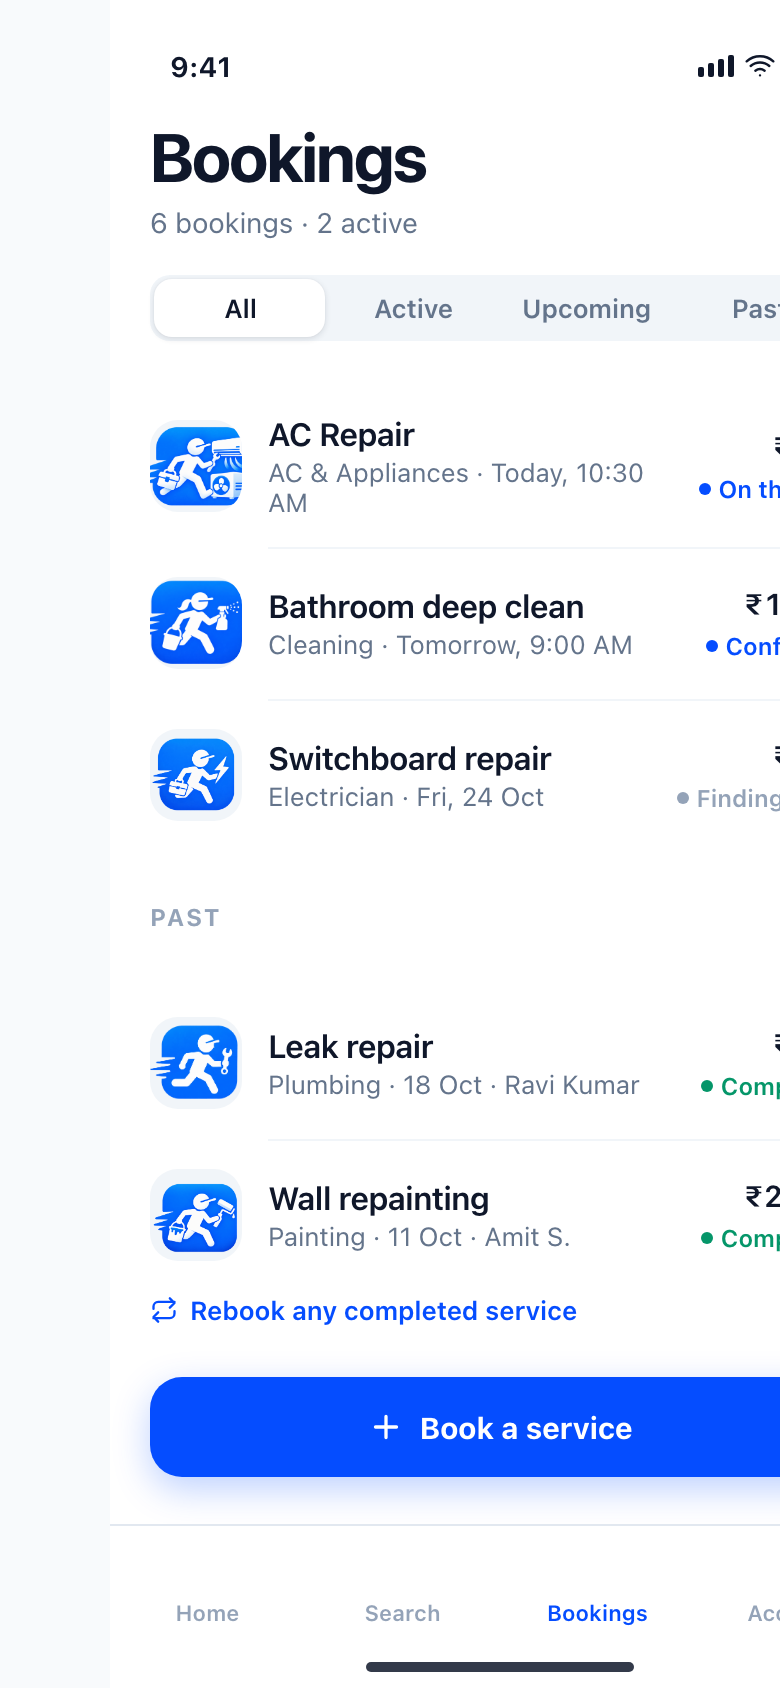
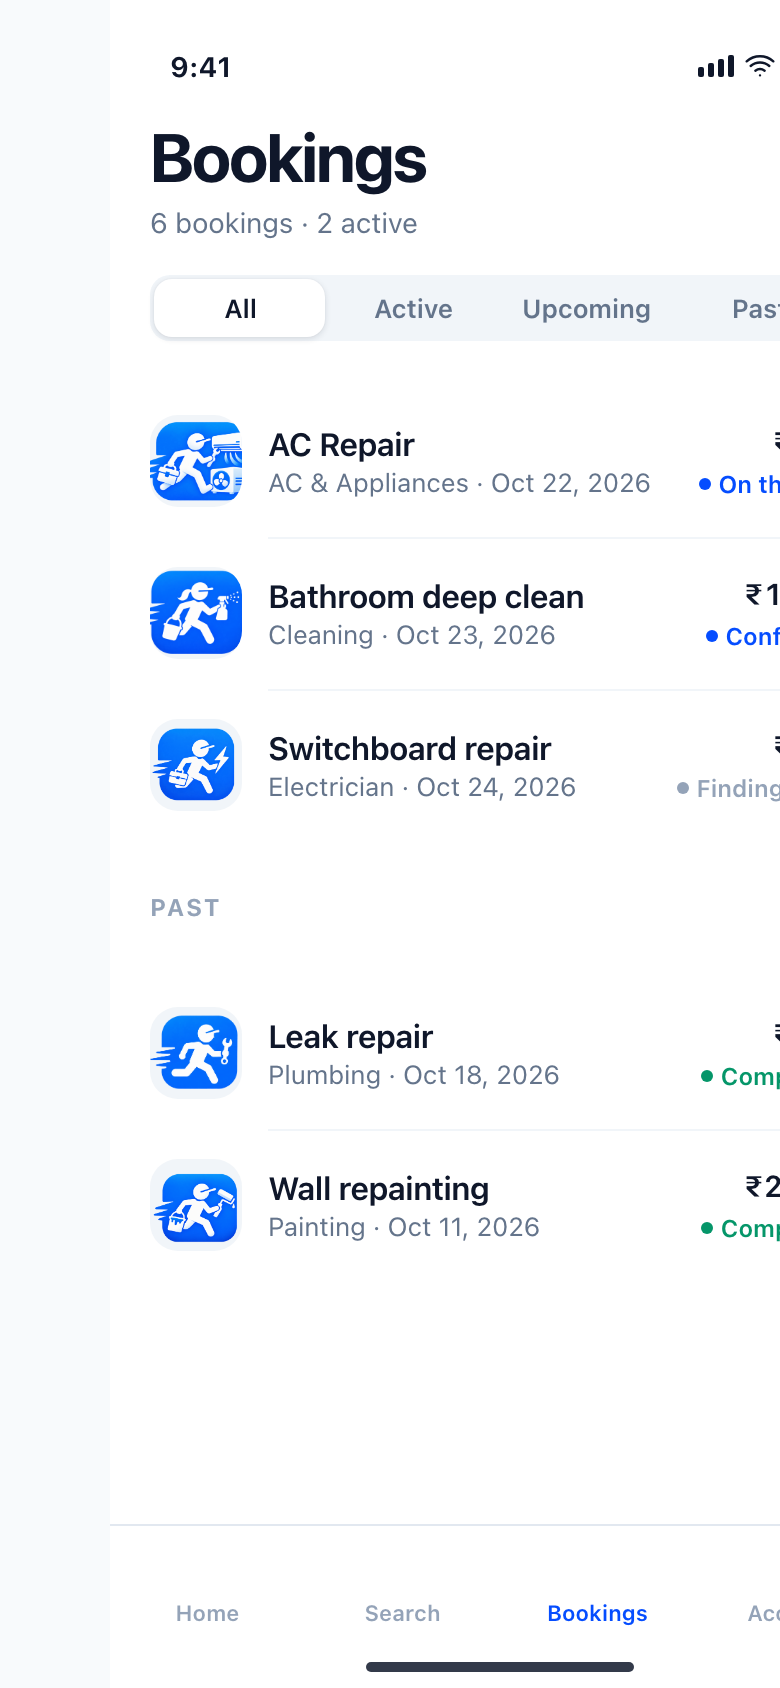
docs(mockups): variant C drops the rebook link and the book-a-service CTA
Direction C is the one being built, and the screen it produces carries no
rebook link and no call-to-action button. The mockup now shows that, with
the row dates in the app's own format ("Oct 22, 2026") so the proposal
matches the screen that ships from it.

diff --git a/docs/mockups/bookings-premium/preview.html b/docs/mockups/bookings-premium/preview.html
@@ -228,12 +228,6 @@
   .st-blue{color:var(--brand)} .st-green{color:var(--green-600)} .st-amber{color:var(--amber-600)} .st-ink{color:var(--ink-400)}
   .c-section{font-size:12px;font-weight:700;letter-spacing:.07em;text-transform:uppercase;color:var(--ink-400);
     padding:26px 20px 6px}
-  .c-rebook{margin:2px 20px 0;font-size:13px;font-weight:600;color:var(--brand);display:flex;align-items:center;gap:6px}
-  .c-rebook svg{width:14px;height:14px;stroke:var(--brand);stroke-width:2}
-  .c-cta{margin:26px 20px 0;height:50px;border-radius:16px;background:var(--brand);color:#fff;display:flex;
-    align-items:center;justify-content:center;gap:8px;font-size:15px;font-weight:700;
-    box-shadow:0 6px 18px rgba(5,77,255,.26)}
-  .c-cta svg{width:18px;height:18px;stroke:#fff;stroke-width:2.2}
 
   /* ========================================================================
      D — Dark summary + card carousel
@@ -543,7 +537,7 @@
             <div class="art" style="background-image:var(--img-hvac)"></div>
             <div class="c-row-txt">
               <b>AC Repair</b>
-              <span>AC &amp; Appliances · Today, 10:30 AM</span>
+              <span>AC &amp; Appliances · Oct 22, 2026</span>
             </div>
             <div class="c-row-end">
               <b>₹799</b>
@@ -554,7 +548,7 @@
             <div class="art" style="background-image:var(--img-cleaning)"></div>
             <div class="c-row-txt">
               <b>Bathroom deep clean</b>
-              <span>Cleaning · Tomorrow, 9:00 AM</span>
+              <span>Cleaning · Oct 23, 2026</span>
             </div>
             <div class="c-row-end">
               <b>₹1,499</b>
@@ -565,7 +559,7 @@
             <div class="art" style="background-image:var(--img-electric)"></div>
             <div class="c-row-txt">
               <b>Switchboard repair</b>
-              <span>Electrician · Fri, 24 Oct</span>
+              <span>Electrician · Oct 24, 2026</span>
             </div>
             <div class="c-row-end">
               <b>₹499</b>
@@ -580,7 +574,7 @@
             <div class="art" style="background-image:var(--img-plumbing)"></div>
             <div class="c-row-txt">
               <b>Leak repair</b>
-              <span>Plumbing · 18 Oct · Ravi Kumar</span>
+              <span>Plumbing · Oct 18, 2026</span>
             </div>
             <div class="c-row-end">
               <b>₹649</b>
@@ -591,21 +585,13 @@
             <div class="art" style="background-image:var(--img-painting)"></div>
             <div class="c-row-txt">
               <b>Wall repainting</b>
-              <span>Painting · 11 Oct · Amit S.</span>
+              <span>Painting · Oct 11, 2026</span>
             </div>
             <div class="c-row-end">
               <b>₹2,400</b>
               <span class="st st-green">Completed</span>
             </div>
           </div>
-        </div>
-        <div class="c-rebook">
-          <svg viewBox="0 0 24 24"><path d="M17 2l4 4-4 4M3 11V9a4 4 0 0 1 4-4h14M7 22l-4-4 4-4M21 13v2a4 4 0 0 1-4 4H3"/></svg>
-          Rebook any completed service
-        </div>
-        <div class="c-cta">
-          <svg viewBox="0 0 24 24"><path d="M12 5v14M5 12h14"/></svg>
-          Book a service
         </div>
       </div>
 
@@ -619,8 +605,8 @@
     </div>
     <div class="caption">
       <h2>C — Quiet premium</h2>
-      <p>No cards, no chrome. A large title, an iOS segmented control, and rows that earn their hierarchy from type and space. The price sits right, status is a coloured dot, and one CTA closes the screen.</p>
-      <span class="tag">Apple-like · least risk</span>
+      <p>No cards, no chrome. A large title, an iOS segmented control, and rows that earn their hierarchy from type and space. The price sits right, status is a coloured dot. <b>This is the direction that was built</b> — without the rebook link and without the “Book a service” button.</p>
+      <span class="tag">Apple-like · shipped</span>
     </div>
   </div>
 
